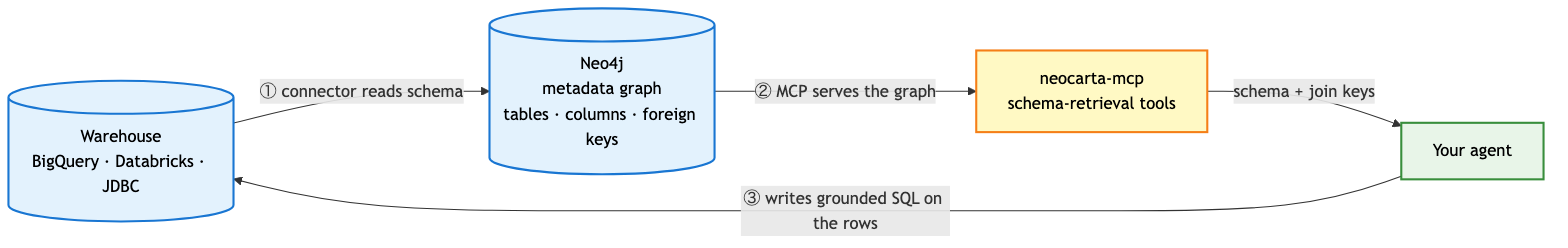
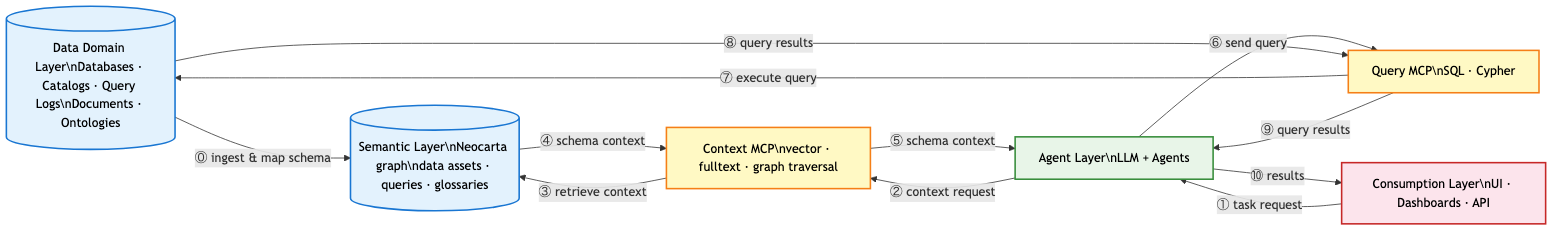
update quickflow diagram and README top sections

diff --git a/README.md b/README.md
@@ -1,6 +1,6 @@
 # Neocarta
 
-An end-to-end library for reliable SQL generation using metadata knowledge graphs in Neo4j.
+An end-to-end library for building a semantic layer in Neo4j — giving AI agents systemic understanding of how your data is organized, what it means, and where it lives.
 
 *Note: This library is not a Neo4j product. It is a Neo4j Labs project supported by the Neo4j field team.*
 
@@ -13,28 +13,62 @@ An end-to-end library for reliable SQL generation using metadata knowledge graph
 
 ## What it is
 
-Neocarta turns a data warehouse's **schema** into a Neo4j **metadata graph** — tables, columns, foreign keys, and sample values — and serves that graph to your agent through an **MCP server**. The agent retrieves the relevant tables and their join keys, then writes SQL against the warehouse. Only the metadata crosses into Neo4j; the warehouse rows stay where they are.
+Neocarta builds a **semantic layer** in Neo4j from your data sources and serves it to your agents through an **MCP server**. The graph unifies more than raw schema — it brings together:
 
-It makes **Text2SQL, query routing, and data discovery** reliable: the agent reads the join paths from the graph instead of inferring them from column names.
+- **Schema metadata** — tables, columns, foreign keys, and sample values
+- **Business glossary** — terms and categories linked to the columns and tables they describe
+- **Metrics** — governed metric definitions and their expressions
+- **Query history** — real queries and the tables and columns they touch
 
-![Neocarta reads your warehouse schema into a Neo4j metadata graph, serves it to your agent over MCP, and the agent writes grounded SQL back against the warehouse rows](assets/images/architecture/quickstart-flow.png)
+…with more on the way. Across a growing set of database types, only the metadata crosses into Neo4j; your data stays in the source.
+
+This gives agents systemic familiarity with the data landscape — what data exists, what it means, how it joins, and which database holds it. Agents use the graph to **discover insights, ground their answers, and route queries to the right database**, making Text2Query, query routing, and data discovery reliable.
+
+![Neocarta builds a semantic layer in Neo4j from your data sources and serves it to your agents over MCP, so they can discover, understand, and query the underlying data](assets/images/architecture/quickstart-flow.png)
 
 ## Quickstart
 
-**1. Ingest** — read your warehouse schema into the metadata graph (rows stay in the warehouse):
+**1. Ingest** — read your source's schema into the semantic graph (your data stays in the source). Use the Python library or the CLI.
+
+Python — this is the [BigQuery connector example](examples/bigquery.py):
 
 ```python
+import os
 from google.cloud import bigquery
 from neo4j import GraphDatabase
+from neocarta import NodeLabel as nl
 from neocarta.connectors.bigquery import BigQuerySchemaConnector
+from neocarta.enrichment.embeddings import LiteLLMEmbeddingsConnector
 
-driver = GraphDatabase.driver(NEO4J_URI, auth=(NEO4J_USER, NEO4J_PASSWORD))
+driver = GraphDatabase.driver(
+    os.getenv("NEO4J_URI"),
+    auth=(os.getenv("NEO4J_USERNAME"), os.getenv("NEO4J_PASSWORD")),
+)
+client = bigquery.Client(project=os.getenv("GCP_PROJECT_ID"))
+
+# Extract, transform, and load BigQuery schema metadata into Neo4j
 BigQuerySchemaConnector(
-    client=bigquery.Client(project=PROJECT),
-    project_id=PROJECT,
+    client=client,
+    project_id=os.getenv("GCP_PROJECT_ID"),
     neo4j_driver=driver,
-).ingest(dataset_id="your_dataset")
+).ingest(dataset_id=os.getenv("BIGQUERY_DATASET_ID"))
+
+# Optional: generate embeddings to turn on semantic table/column search
+LiteLLMEmbeddingsConnector(
+    neo4j_driver=driver,
+    embedding_model="text-embedding-3-small",
+).run(node_labels=[nl.DATABASE, nl.SCHEMA, nl.TABLE, nl.COLUMN])
 ```
+
+CLI — the same ingest without writing Python (`--embeddings` is optional):
+
+```bash
+pip install "neocarta[cli]"
+# reads NEO4J_URI / NEO4J_USERNAME / NEO4J_PASSWORD / OPENAI_API_KEY from the environment or a .env file
+neocarta bigquery schema --project-id my-proj --dataset-id sales --embeddings
+```
+
+See the [Neocarta CLI](#neocarta-cli) section for the full command set.
 
 **2. Serve** — expose the graph to your agent as tools:
 
@@ -44,14 +78,57 @@ pip install "neocarta[mcp]"
 neocarta-mcp
 ```
 
-The server gives the agent schema-retrieval tools — `get_full_metadata_schema`, `list_schemas`, `list_tables_by_schema`, and full-text or vector search over tables and columns — each returning a table with its columns, types, example values, and **foreign-key references**.
+The server gives the agent retrieval tools — `list_schemas`, `list_tables_by_schema`, and full-text, vector, or hybrid search over tables, columns, and business terms — each returning a table with its columns, types, example values, and **foreign-key references**.
 
-**3. Use** — connect your agent to the `neocarta` MCP server plus a SQL-execution tool. The agent retrieves the schema, follows the foreign keys to build the join, and runs the SQL:
+**3. Use** — connect your agent to the `neocarta` MCP server plus a query-execution tool for your database. The agent searches the graph for relevant tables, follows the foreign keys to build the join, and runs the query:
 
 > *Which customers placed the largest orders last quarter?*
-> → the agent calls `get_full_metadata_schema`, sees `orders.customer_id → customers.id`, writes the join, and returns the rows.
+> → the agent calls `get_context_by_table_hybrid_search`, finds `orders` and `customers`, sees `orders.customer_id → customers.id`, writes the join, and returns the results.
 
-A complete runnable agent (LangGraph + the MCP + a BigQuery SQL tool) is in [`run_agent.py`](run_agent.py).
+A complete runnable agent (LangGraph + the MCP + a BigQuery query tool) is in [`run_agent.py`](run_agent.py).
+
+The above will result in an agent architecture like below:
+
+```mermaid
+---
+config:
+    layout: dagre
+---
+
+graph LR
+    
+    subgraph GCP["GCP Environment"]
+        BQMCP(BigQuery<br>MCP)
+
+        subgraph DataWarehouse["Data Warehouse"]
+            BQData[(BigQuery)]
+        end
+        
+        BQMCP <--> BQData
+    end
+
+    subgraph Local["Local Environment"]
+        Agent("Text2SQL Agent")
+        MetadataMCP("Neocarta<br/>MCP")
+        
+        subgraph Graph["Database"]
+            NEO[(Neo4j Graph)]
+        end
+        
+        Agent <--> MetadataMCP
+        MetadataMCP <--> NEO
+    end
+    
+    User("User")
+    
+    subgraph LLM["LLM Service"]
+        Model("LLM")
+    end
+    
+    User <--> Agent
+    Agent <--> Model
+    Agent <--> BQMCP
+```
 
 Embeddings are optional: catalog and full-text tools work from schema alone, and adding embeddings turns on semantic table and column search. See [Embeddings](#embeddings) and [Neocarta MCP](#neocarta-mcp).
 
